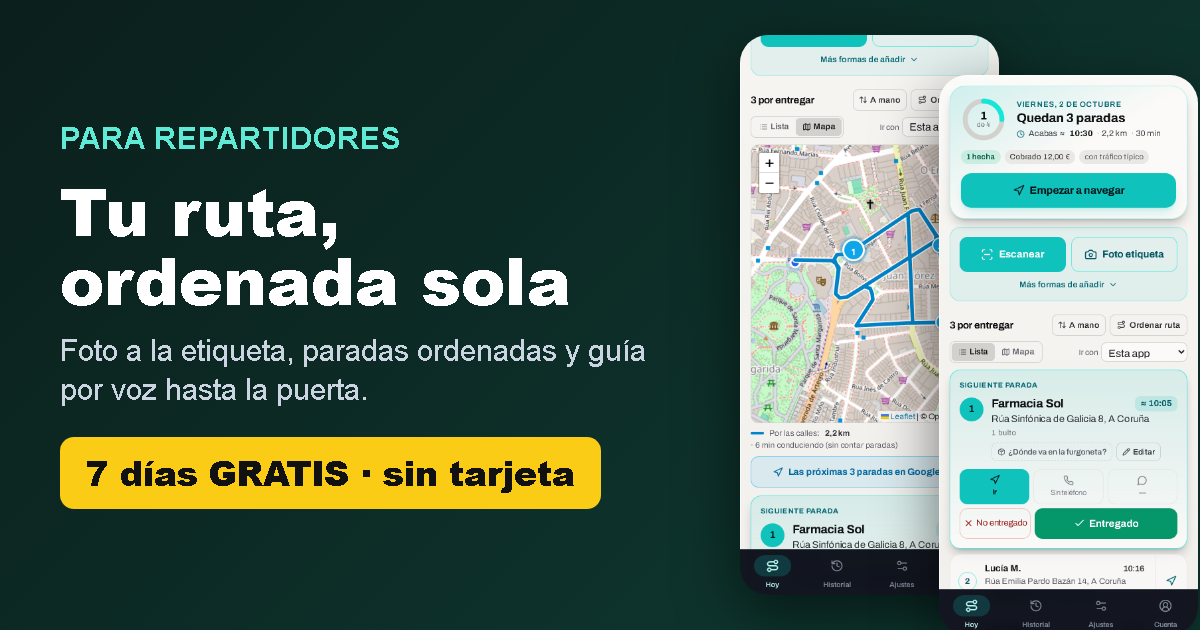
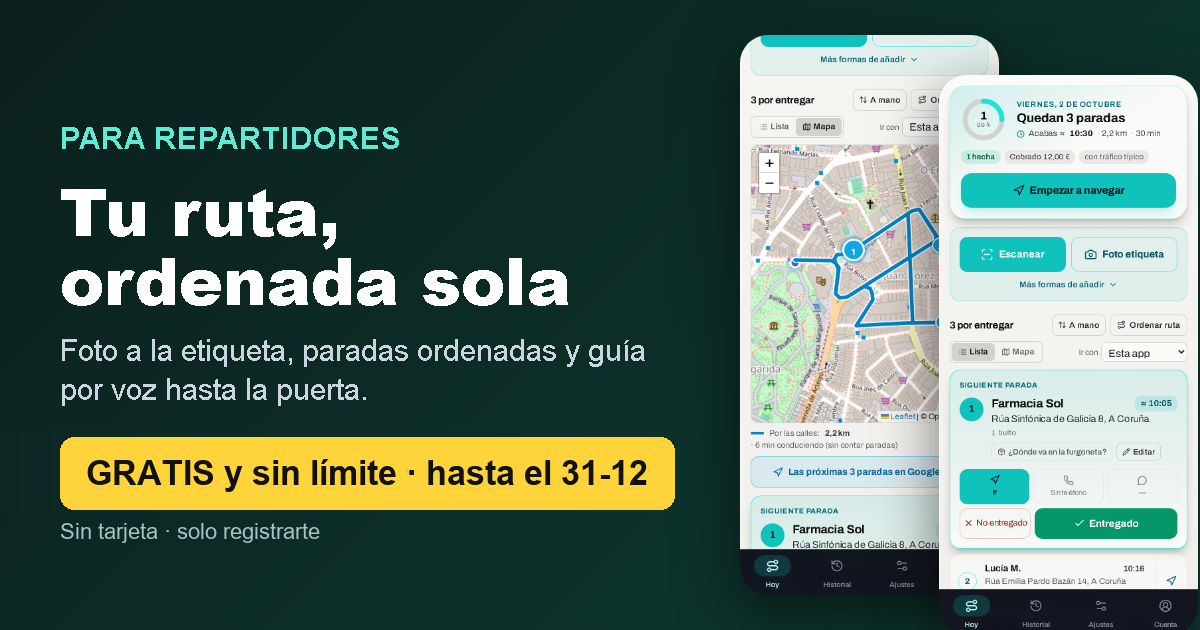
Vista previa de /repartidores con la promoción (gratis y sin límite hasta el 31-12)

Changed region(s): [[0.0308, 0.6937, 0.5858, 0.8746]]

diff --git a/frontend/functions/repartidores.js b/frontend/functions/repartidores.js
@@ -26,7 +26,7 @@ export async function onRequestGet(context) {
     `<meta property="og:title" content="${TITULO}" />`,
     `<meta property="og:description" content="${DESCRIPCION}" />`,
     `<meta property="og:url" content="${base}/repartidores" />`,
-    `<meta property="og:image" content="${base}/og-repartidores.png" />`,
+    `<meta property="og:image" content="${base}/og-repartidores.png?v=promo1231" />`,
     `<meta property="og:image:width" content="1200" />`,
     `<meta property="og:image:height" content="630" />`,
     `<meta property="og:image:alt" content="${TITULO}" />`,
